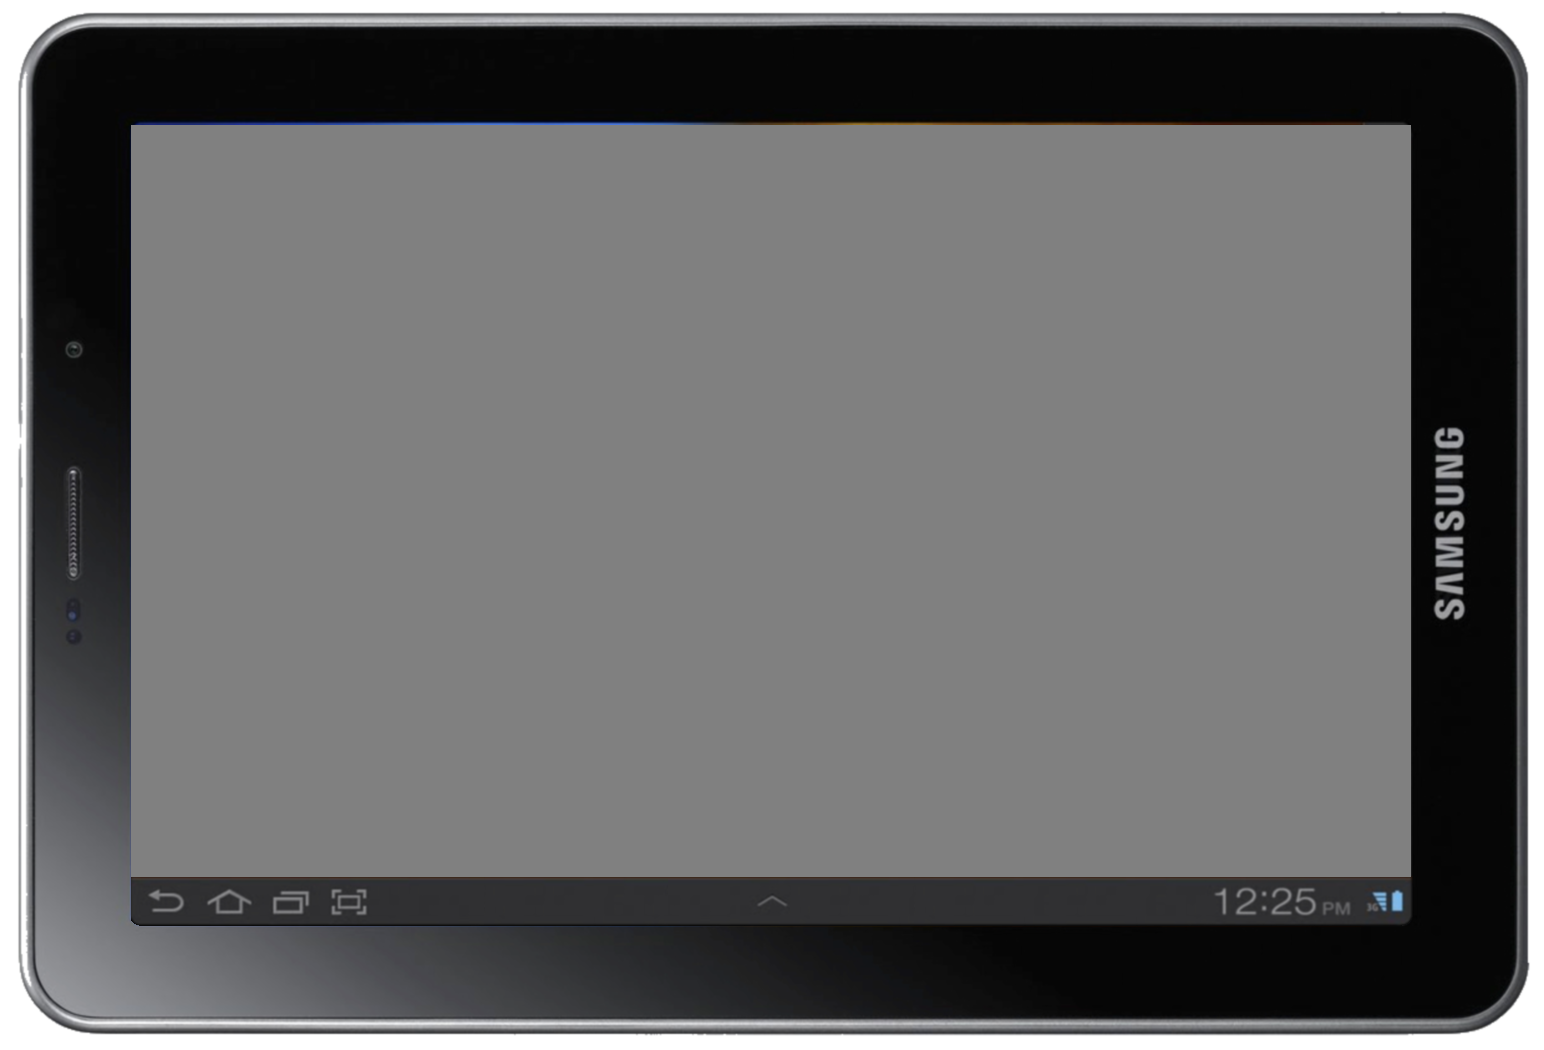
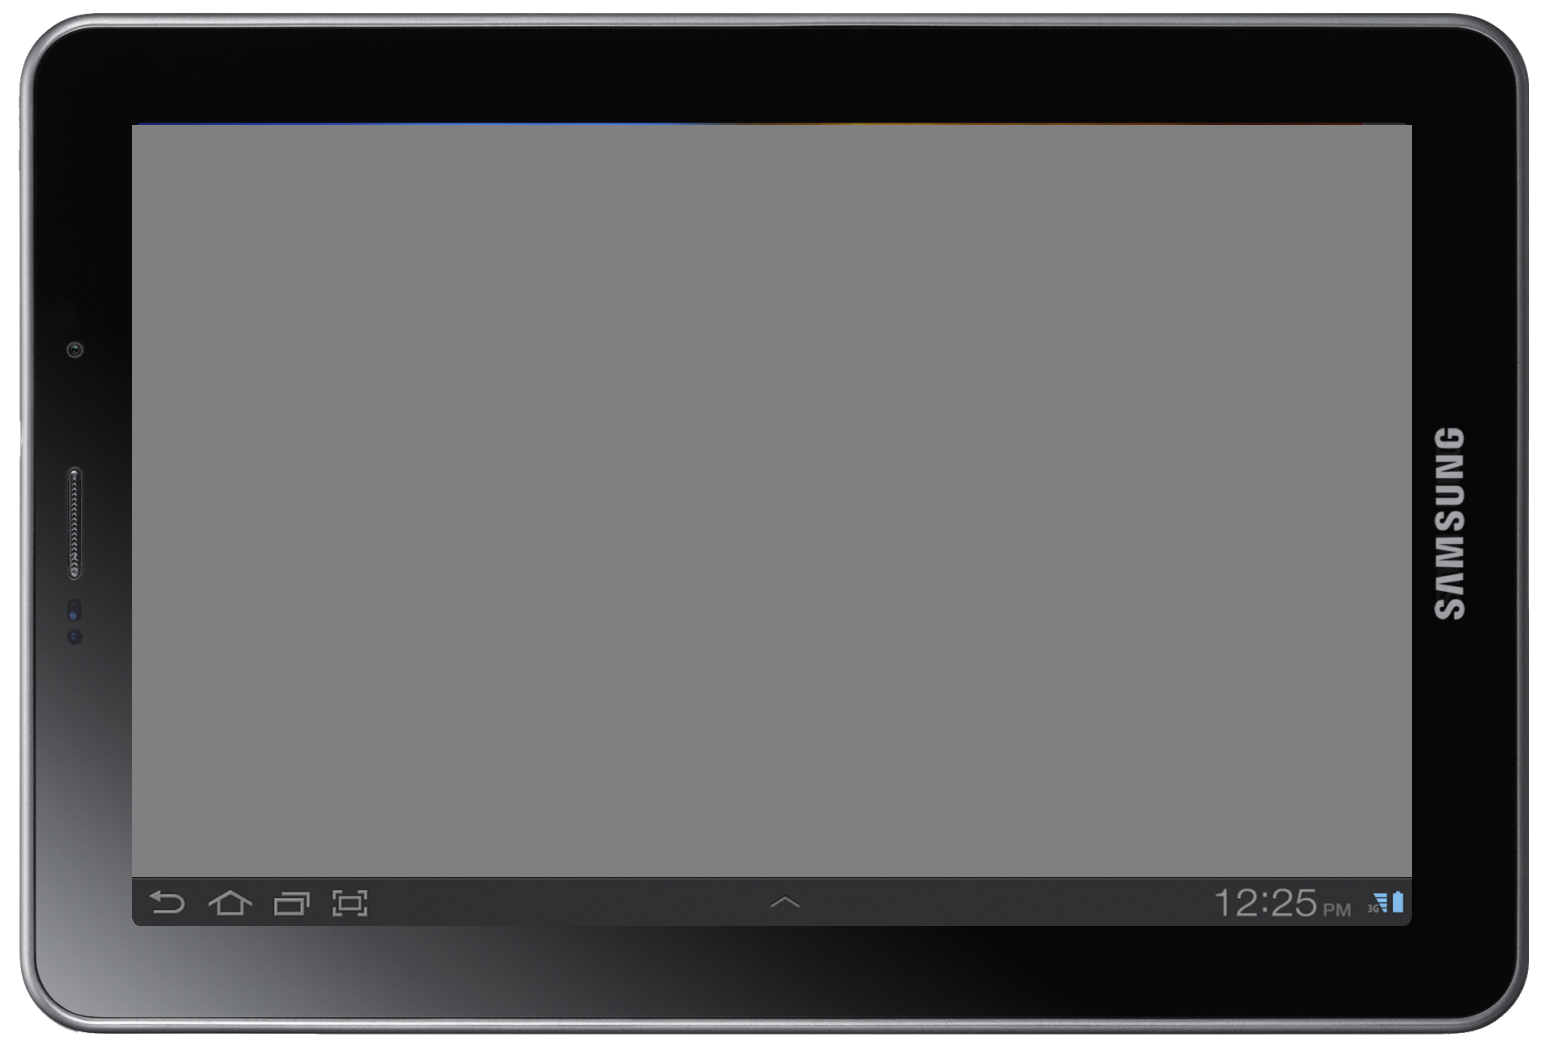
W.I.P.

diff --git a/app/stylesheets/emulators/galaxy.tab.7.7.portrait.scss b/app/stylesheets/emulators/galaxy.tab.7.7.portrait.scss
@@ -9,10 +9,10 @@
   -webkit-transform-origin: 0 0;
   .display-area {
     position: relative;
-    top: 127px;
+    top: 125px;
     width: 800px;
-    height: 1232px;
-    max-height: 1232px;
+    height: 1230px;
+    max-height: 1230px;
     color: #ffffff;
     a {
       color: #ff5500; } } }

diff --git a/app/stylesheets/emulators/galaxy.tab.7.7.landscape.scss b/app/stylesheets/emulators/galaxy.tab.7.7.landscape.scss
@@ -9,7 +9,7 @@
   -webkit-transform-origin: 0 0;
   .display-area {
     position: relative;
-    top: 124px;
+    top: 125px;
     width: 1280px;
     height: 752px;
     max-height: 752px;

diff --git a/app/controllers/emulators_controller.rb b/app/controllers/emulators_controller.rb
@@ -36,7 +36,7 @@ class EmulatorsController < ApplicationController
       when "galaxy.tab.7.7"
         scale = scale(196.03)
         @width  = @orientation == "landscape" ? 1280 :  800
-        @height = @orientation == "landscape" ?  752 : 1232
+        @height = @orientation == "landscape" ?  752 : 1230
       when "galaxy.tab.8.9"
         scale = scale(169.6)
         @width  = @orientation == "landscape" ? 1280 :  800
